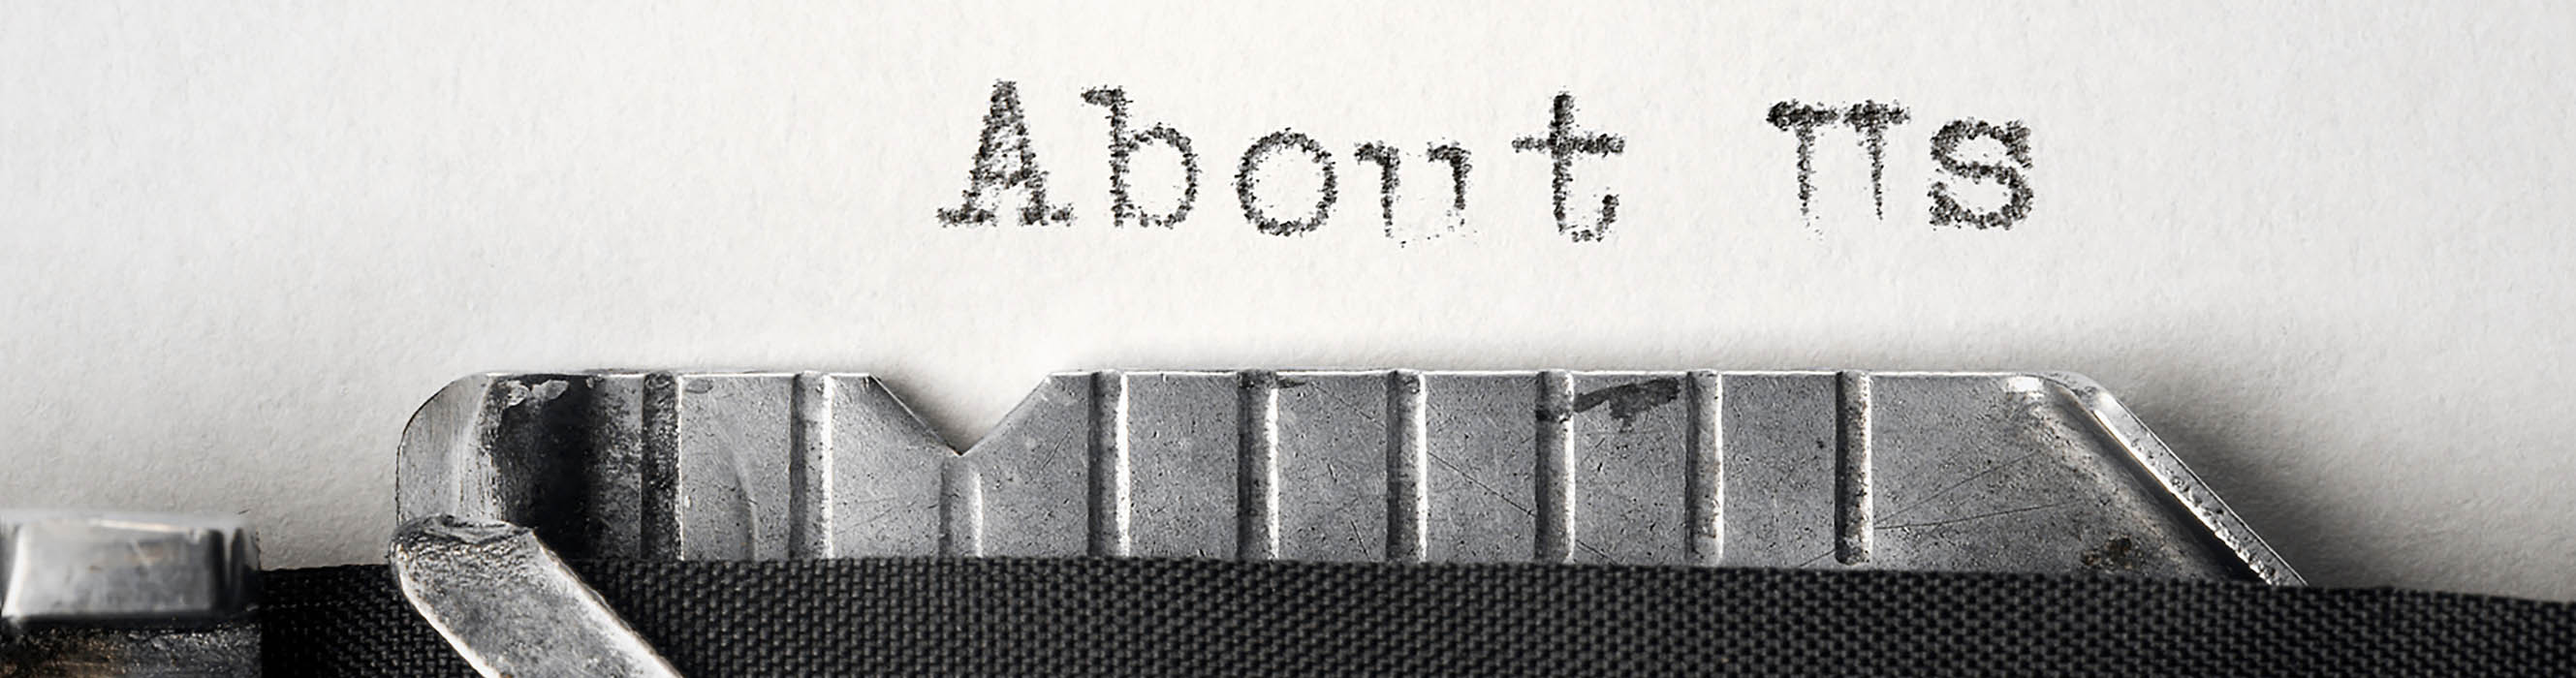
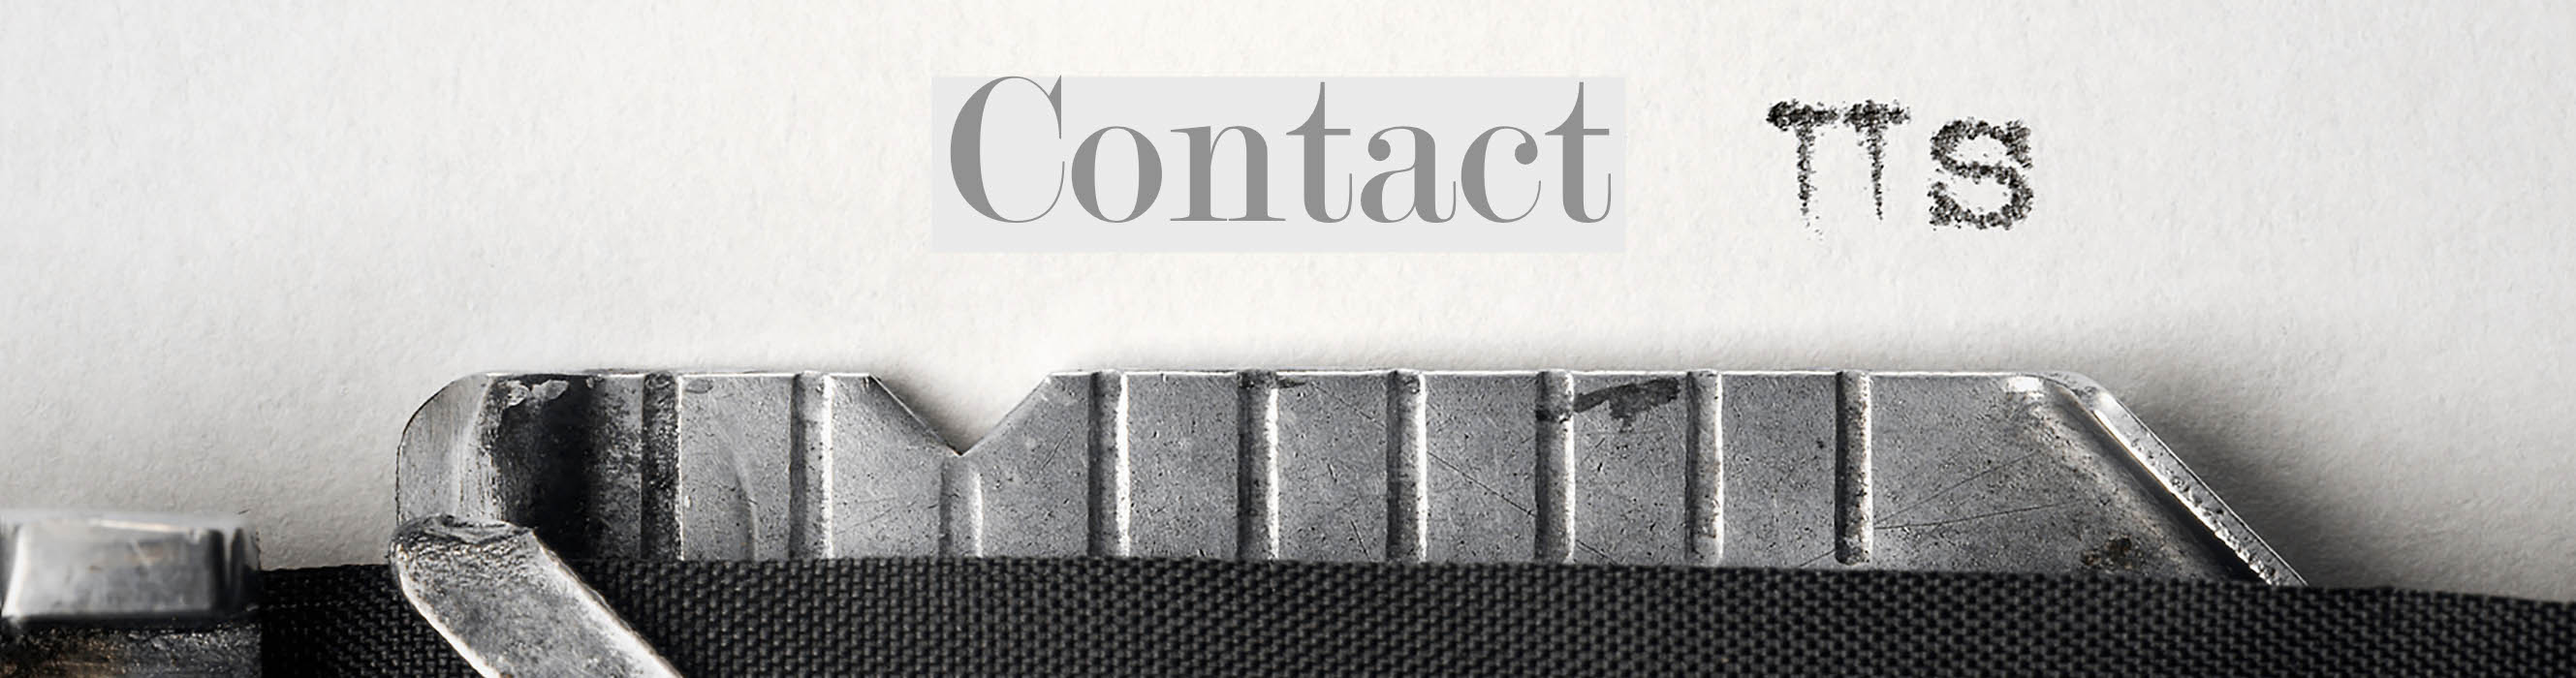
new contact slider image

Changed region(s): [[0.3435, 0.12, 0.6558, 0.36]]

diff --git a/src/components/ContactUsSlider.jsx b/src/components/ContactUsSlider.jsx
@@ -9,7 +9,7 @@ const ContactUsSlider = () => (
       <div className="slider">
         <ul className="bxslider">
           <li>
-            <img src="../images/about.jpg" alt="" />
+            <img src="../images/contact.jpg" alt="" />
           </li>
         </ul>
       </div>
